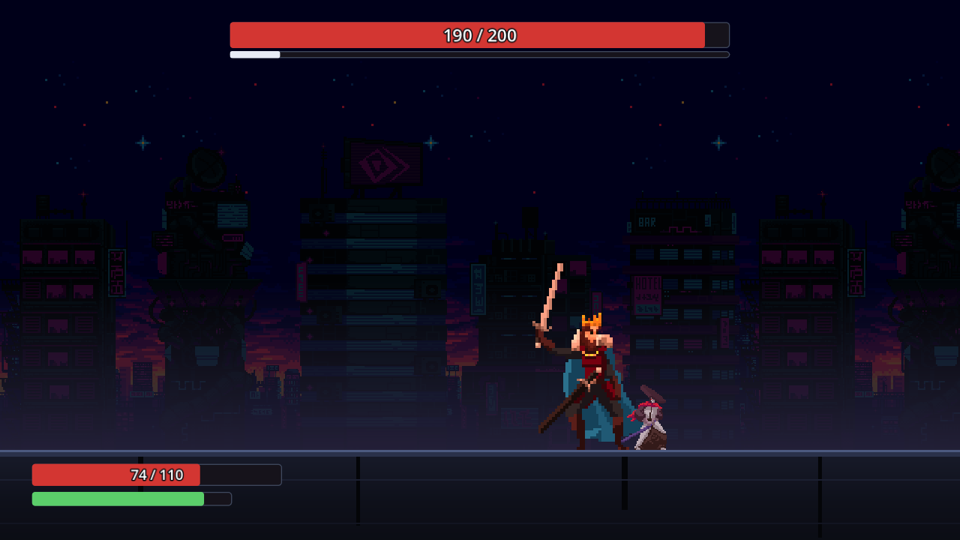
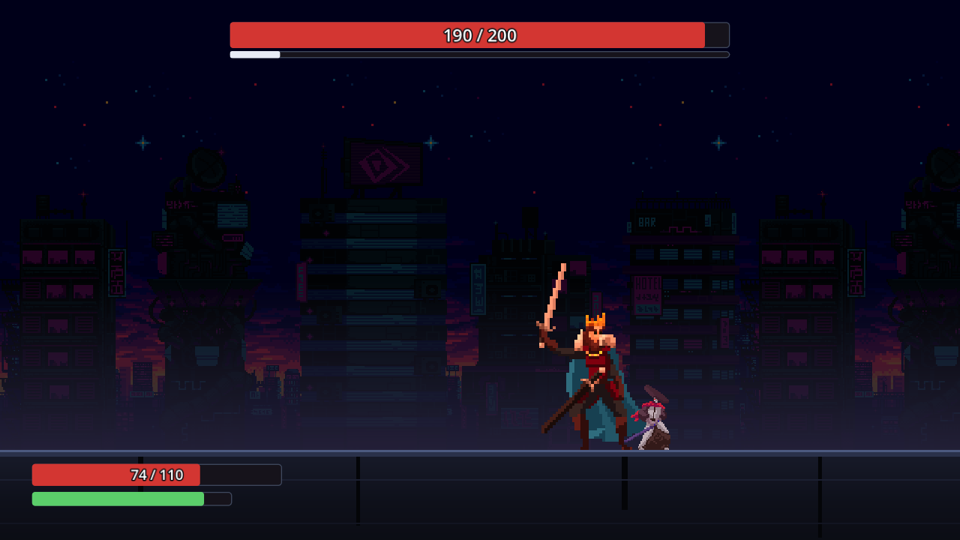
README 와 스크린샷을 2단계 보스에 맞춘다 — 패턴 다섯 · 패턴별 GIF · 새 사진 넷 (#78)
README 가 이 PR 이 바꾼 것을 전부 말한다: 2단계 명부 다섯(3연격 · 점프 3연속 · 1타 돌진 · 1타 잡기 · 엇박 3연격)과 패턴마다 '1단계에서 이것을 많이 한 사람 → 이 패턴 → 당하는 GIF'(고르기는 아직 무작위라 겨냥은 설계의 뜻이다), 선딜 틴트의 무르익음을 걷은 것. tools/build.sh shots 를 다시 돌려(자동 모드가 서브에이전트에 막은 것을 유저가 컨트롤러에게 허락했다) 30장 · 경고 없이 찍었고 새 넷(battle-13 · 13b · 13c · 13d)과 선딜 사진을 열어 확인했다.

Changed region(s): [[0.5312, 0.4741, 0.7188, 0.8296]]

diff --git a/README.md b/README.md
@@ -25,14 +25,26 @@
 
 | | 무엇이 오나 | 답 |
 |---|---|---|
-| **3연격** | 칼을 든 채 잠깐 멈췄다가(그 자세가 예고다) 세 번 벤다 — 피해 8 · 8 · 14 | 다 된다 — 대시 · 가드 · 패리 · 간격. 점프는 1 · 2타를 거의 어디서든 넘고, 3타는 바짝 붙어 있을 때 넘는다 |
+| **3연격** | 칼을 든 채 잠깐 멈췄다가(그 자세가 예고다) 세 번 벤다 — 피해 8 · 8 · 14 | 다 된다 — 대시 · 가드 · 패리 · 간격. 점프는 1타를 어디서든, 2타를 보스 앞에서, 3타를 바짝 붙어서 넘는다 |
 | **점프 공격** | 웅크렸다가 **당신이 선 자리를 향해** 뛰어올라, 착지하며 **바닥 전체**를 친다 — 피해 12. 착지한 발밑에서 **흰 충격파**가 바닥을 따라 양옆으로 퍼진다 — 그 띠의 높이가 곧 맞는 높이다 | 가드와 점프. **패리는 안 받는다** |
 
-**1단계는 당신이 무엇에 기대는지를 재는 자리다.** 2단계는 아직 1단계와 같은 두 패턴으로 돈다 — 1단계의 습관을
-겨냥하는 2단계 패턴은 다음 작업이다.
+**1단계는 당신이 무엇에 기대는지를 재는 자리다.** 2단계는 바탕인 3연격에 1단계의 습관을 하나씩 겨냥한 넷을 더한
+다섯이다 — 단발 점프 공격은 세 번 이어 뛰는 점프 ×3 이 대신한다. 누구를 겨냥했는지와 그 사람이 당하는 GIF 는
+[아래](#2단계는-1단계의-습관을-겨냥한다)에 있다.
 
-**재시도할 때마다 보스가 달라진다.** 전투가 설 때마다 새 시드가 나와 패턴의 순서가 대개 바뀐다. 지금은 무작위로
-고르고, 망이 들어오면 그 자리에서 당신의 기록을 읽는다.
+| | 무엇이 오나 | 답 |
+|---|---|---|
+| **3연격** | 1단계와 같다 | 1단계와 같다 |
+| **1타 → 돌진 → 3타** | 1타까지는 3연격과 **똑같다**. 그다음 칼을 휘두르는 대신 **당신에게 달려와**(방 끝에서 끝까지 0.43초) 앞 280 에서 멈추고 0.25초 뒤 3타를 꽂는다 | 3타는 3연격의 3타라 가드 · 패리 · 대시가 된다. 걸어서는 못 벗어난다. 이미 붙어 있으면 달리지 않고 곧장 3타다. 달려오는 보스를 찌르면 1타 뒤 경직(0.4초)에 선 채로 3타가 온다 |
+| **1타 → 잡기** | 1타까지는 3연격과 똑같다. 그다음 보스가 선 채로 **흰 구**를 날려 **바닥 전체**를 잡는다 — 피해 25 · 1초 동안 붙들린다 | **점프만 된다.** 대시 무적도 안 먹고, 가드 중이어도 · 패리 창 안이어도 잡힌다. 흰 구가 떠나는 것을 보고 뛰면 넘는다(0.35초) |
+| **점프 ×3** | 점프 공격을 세 번 잇는다 — 매번 그때 당신이 선 자리를 향해 뛰고, 착지마다 흰 충격파가 선다 | 점프는 매번 된다. 가드도 매번 되지만 가드 중에는 스태미나가 안 차서 이어 막을수록 준다. 패리는 안 받는다 |
+| **엇박 3연격** | 3연격과 같은 세 타인데, 타마다 칼을 **올리기 전** 자세로 0.15초 더 멈춘다 | 다 된다. 다만 3연격의 박자로 누른 패리는 창이 지나 맞는다 — 칼이 올라야 할 때 안 오르는 것을 보고 누르면 받아친다 |
+
+**잡히면 붙들린다.** 하던 것(칼질 · 대시 · 패리 · 가드)이 그 경직까지 그 자리에서 끝나고 1초 동안 아무것도 못 한다. 마지막
+스태미나를 쓴 행동을 잡기가 끊었으면 풀린 뒤에도 탈진이 남는다 — 둘 중 긴 쪽만큼 굳는다.
+
+**재시도할 때마다 보스가 달라진다.** 전투가 설 때마다 새 시드가 나와 패턴의 순서가 대개 바뀐다. 지금은 두 단계
+모두 무작위로 고르고, 망이 들어오면 2단계가 그 자리에서 당신의 기록을 읽는다.
 
 몸은 서로 통과한다. 밀어내지 않으니 갇히지 않고, 대신 "거리"는 벽이 아니라 **패턴의 안전 구역**이 만든다.
 
@@ -76,18 +88,26 @@
 ## 화면
 
 **예고는 보스의 그림이다.** 3연격은 칼을 든 장에, 점프 공격은 웅크린 장에 잠깐 멈춰 선다 — 무엇이 오는지도
-언제 오는지도 그 자세가 말한다. 보스의 공격에는 동그라미를 그리지 않는다. 1단계에는 가드로 못 막는 판정이 없다 —
-옛 변종의 표지와 빨간 마무리(危)는 변종과 같이 걷었다.
+언제 오는지도 그 자세가 말한다(칼이 오르는 장에서 판정까지는 늘 같다). 보스의 공격에는 동그라미를 그리지 않는다.
+**선딜 동안 판정이 가까울수록 무르익던 몸 색도 걷었다** — 선딜의 색은 한 색이다. 2단계의 미끼(1타로 여는 세 패턴 ·
+엇박)는 그림이 같아야 미끼인데, 무르익음이 다음 칼이 언제인지를 먼저 말했다. 옛 변종의 표지와 빨간 마무리(危)는
+변종과 같이 걷었다 — 가드로 못 막는 판정은 2단계의 잡기 하나이고, 그것은 **흰 구**가 말한다. 흰 구는 예고 링이
+아니라 당신을 붙드는 것이다: 보스에게서 떠나 창이 열릴 때 당신에게 닿고, 잡히면 감싼 채 1초를 붙들고 흩어진다.
 
 **점프 공격의 착지는 흰 충격파다.** 착지의 판정은 칼 궤적이 아니라 바닥의 띠라서, 그 띠를 그린다 — 착지하는 순간 맞는
 자리 전체(바닥의 낮은 곳)가 옅게 하얘지고, 그 위로 밝은 앞머리 둘이 발밑에서 양옆 끝까지 달린다. 띠의 높이는 규칙이 치는 판정의
-높이 그대로라, 보이는 띠 위로 뛴 발은 안 맞는다.
+높이 그대로라, 보이는 띠 위로 뛴 발은 안 맞는다. 점프 ×3 은 착지마다 한 번씩 선다. 잡기의 띠도 바닥의 같은
+높이를 치지만 충격파는 안 선다 — 잡기의 그림은 흰 구다.
 
 | <img src="docs/shots/battle-6-windup.png" width="420"> | <img src="docs/shots/battle-6a-leap.png" width="420"> |
 |---|---|
 | 보스의 선딜 — 그 패턴의 예고 자세에 멈춰 선다 | 점프 공격 — 당신 쪽으로 뛰어 착지에 바닥 전체를 친다 |
 | <img src="docs/shots/battle-6b-landing-wave.png" width="420"> | <img src="docs/shots/battle-11-stage-2.png" width="420"> |
 | 착지 — 맞는 자리 전체가 옅게 깔리고, 밝은 앞머리 둘이 발밑에서 양옆으로 반쯤 달려 나갔다. 띠의 높이가 곧 맞는 높이라, 뛰어오른 파이터는 그 위에 떠 있다 | 2단계의 결과 화면 — 1단계를 이기면 2단계가 선다 |
+| <img src="docs/shots/battle-13-rush.png" width="420"> | <img src="docs/shots/battle-13b-grab.png" width="420"> |
+| 1타 → 돌진 — 1타 뒤 칼 대신 달려온다 | 1타 → 잡기 — 흰 구가 붙든 파이터 |
+| <img src="docs/shots/battle-13c-jump3.png" width="420"> | <img src="docs/shots/battle-13d-offbeat.png" width="420"> |
+| 점프 ×3 — 둘째 도약, 다시 당신 쪽으로 | 엇박 3연격 — 3연격이면 칼이 올랐을 순간에 아직 칼을 든 자세다 |
 | <img src="docs/shots/battle-10d-parry.png" width="420"> | <img src="docs/shots/battle-10e-boss-exhausted.png" width="420"> |
 | 받아친 순간 | 받아쳐 무너진 보스 — 1.5초 동안 푸르게 서고, 체력바 밑 게이지 자리가 남은 탈진을 파랗게 그린다 |
 | <img src="docs/shots/battle-12-poise.png" width="420"> | <img src="docs/shots/battle-12b-poise-break.png" width="420"> |
@@ -121,6 +141,8 @@ tools/build.sh run
 재시도마다 보스의 순서가 바뀐다. 한 판을 다시 보려면 게임 로그의 `[run][I] attempt=… stage=S seed=X` 를
 헤드리스 데모에 넘긴다 — `EXTRA=--stage=S tools/build.sh demo X` 가 그 시도의 보스 순서로 봇 한 판을 돈다.
 
+아래의 패턴별 GIF 는 `tools/build.sh gifs` 가 다시 찍는다 — 창을 띄우고 `ffmpeg` 이 필요하다(`brew install ffmpeg`).
+
 ---
 
 ## 어떤 망을 어떻게 만드나
@@ -152,8 +174,10 @@ tools/build.sh run
 망이 그 차이를 알아야 한다.
 
 > 점프와 관련된 축 셋(`jump_reliance` · `jump_timing_bias` · `airborne_at_impact`)은 이제 근거가 선다 —
-> 3연격의 1타와 점프 공격의 착지는 점프로 넘는다. "점프로 넘을 수 있었나" 는 패턴의 태그가 아니라 **판정마다**
-> 그 모양과 캐릭터의 점프로 잰다: 3연격은 태그로는 "넘을 수 있다" 이지만 2 · 3타는 칼이 점프보다 높다.
+> 3연격과 점프 공격의 착지는 점프로 넘고, 2단계의 잡기는 점프로만 넘는다. "점프로 넘을 수 있었나" 는 패턴의 태그가
+> 아니라 **판정마다, 그 판정이 선 순간 당신이 선 자리에서** 캐릭터의 점프로 잰다 — 3연격의 1타는 어디서든, 2타는
+> 보스 앞에서, 3타는 바짝 붙어서 넘고, 그 밖의 자리에서는 칼이 점프보다 높다. 그 자리에서 뛰어 피하면 몸이 칼의 틈이나
+> 끝 너머로 빠졌어도 점프로 센다 — 서 있었으면 맞았을 칼이다.
 
 **② 패턴 태그** — 패턴마다 손으로 적어둔 성질이다. 패리 가능 여부와 그 창, 대시 창과 방향, 뛰어넘을 수
 있는지, 대공인지, 욕심을 벌하는지, 사거리, 다단히트 수, 추적 여부.
@@ -197,7 +221,7 @@ tools/build.sh run
 관측: 대시로만 피한다
 
 다음 보스:
-  · 1타 → 잡기  ← 대시의 무적을 안 받는 잡기 (2단계 패턴 — 다음 작업)
+  · 1타 → 잡기  ← 대시의 무적을 안 받는 잡기
   · 그리고 아직 안 막힌 것 하나          ← 숨통
 ```
 
@@ -210,6 +234,21 @@ tools/build.sh run
 
 고르기는 **시도를 시작할 때 한 번** 세운다. 판 도중에는 안 바뀌고, 지고 다시 하면 그때까지의 기록으로
 다시 세운다 — 실시간 추론이 없다.
+
+### 2단계는 1단계의 습관을 겨냥한다
+
+2단계의 패턴 넷은 저마다 **1단계에서 한 가지를 많이 한 사람**을 겨냥해 만들었다. 아래 GIF 는 그 패턴이 왔을 때 그
+사람이 어떻게 되는지다 — `tools/build.sh gifs` 가 대본으로 패턴을 고정하고 그 사람처럼 움직이는 파이터를 두어 찍는다.
+
+> **고르기는 아직 무작위다.** 이 겨냥은 설계 의도다 — 지금은 2단계의 다섯 중 하나가 무작위로 오고, 망이 들어오면
+> 이 표대로 당신의 기록을 읽어 고른다. 3연격은 겨냥이 없는 바탕이라 칸이 없다.
+
+| 1단계에서 많이 한 것 | 오는 패턴 | 당하는 모습 |
+|---|---|---|
+| 멀리 서서 지켜보다 후딜에만 찔끔 친다 | **1타 → 돌진 → 3타** — 1타가 멀리서 헛치자 후딜을 노려 걸어 들어가다, 달려오는 보스를 한 번 찌른 사람이 1타 뒤 경직에 선 채 3타를 맞는다 | <img src="docs/gifs/rush.gif" width="360"> |
+| 대시로만 피한다 | **1타 → 잡기** — 1타를 대시로 흘리고, 잡기 창 직전에 또 대시해 **무적인 채로** 흰 구에 붙들린다 | <img src="docs/gifs/grab.gif" width="360"> |
+| 패리를 많이 한다 | **엇박 3연격** — 3연격의 박자에 K 를 누른 사람이 받아치는 창이 지난 뒤 늦은 1타에 맞고, 헛친 패리가 풀린 뒤 3연격의 간격으로 다시 누른 K 로 늦은 2타에도 또 맞는다 | <img src="docs/gifs/offbeat.gif" width="360"> |
+| 가드로 버틴다 | **점프 ×3** — ↓ 를 놓지 않는 사람이 3연격을 막고(스태미나 54) 곧장 온 점프 ×3 의 셋째 착지에서 가드가 깨진다(GIF 는 둘째 도약부터) | <img src="docs/gifs/jump3.gif" width="360"> |
 
 ### 그래서 지금이 무작위다
 
